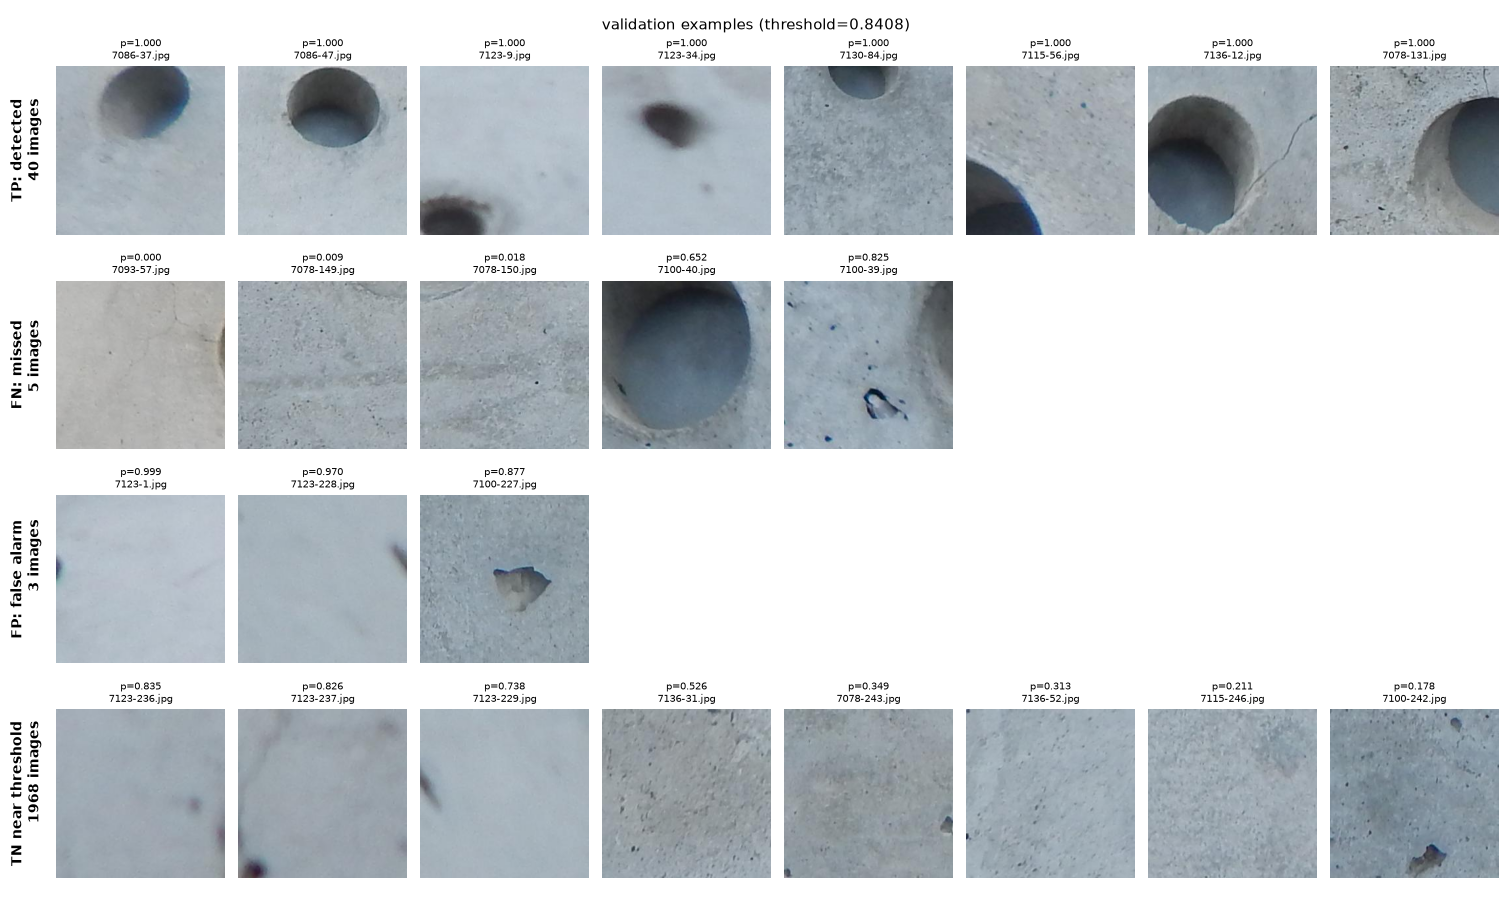
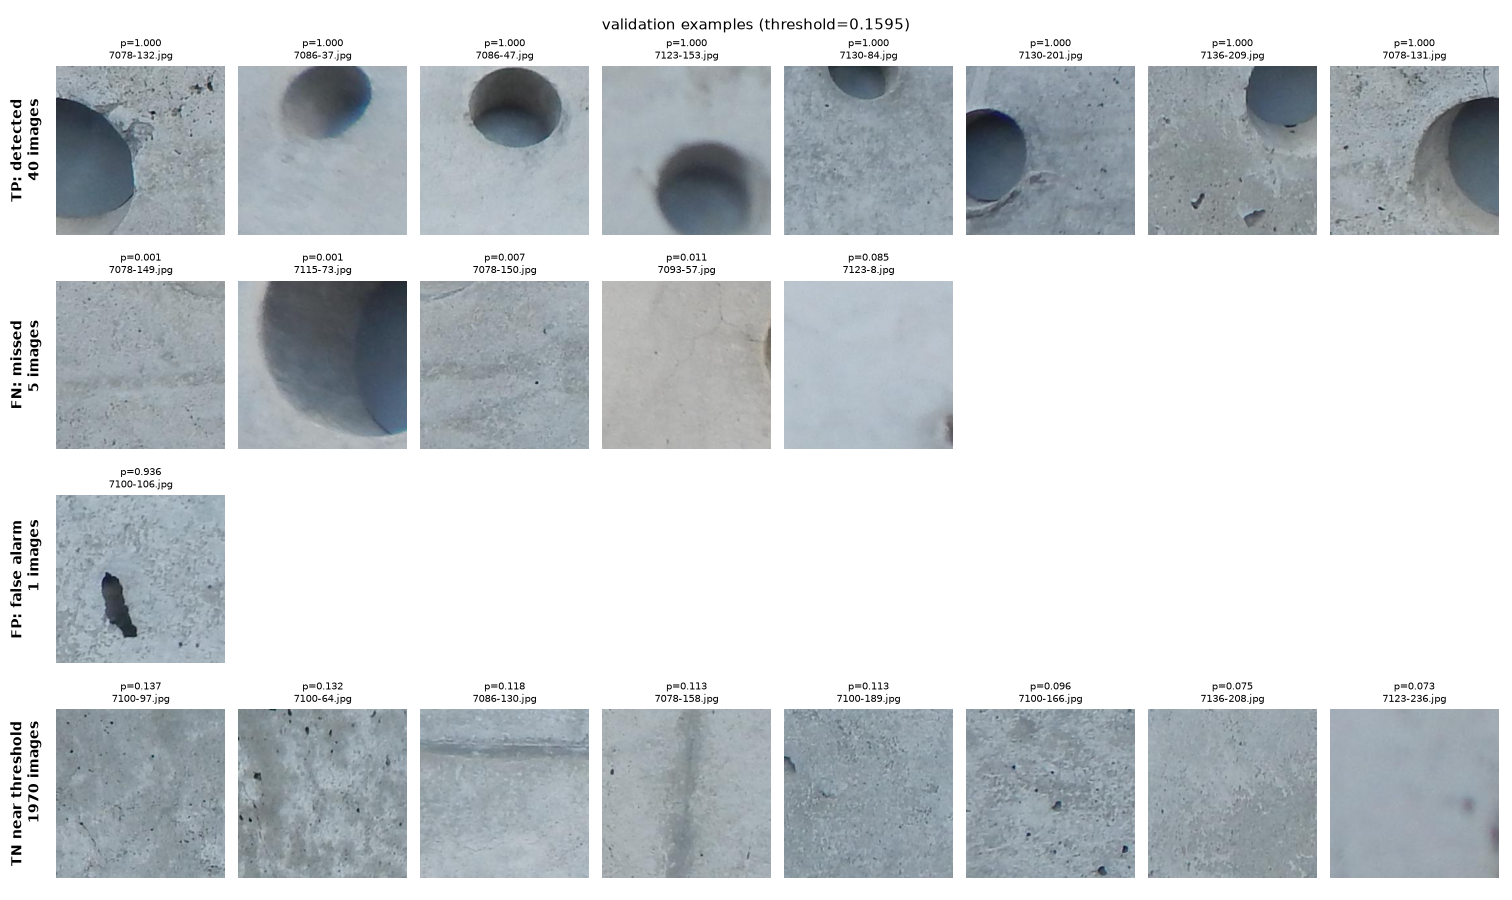
2値化画像を観測に追加

diff --git a/predict.py b/predict.py
@@ -1,10 +1,12 @@
 """学習済みモデルで評価用画像を予測し、提出用CSV（ヘッダなし、<相対パス>,<0|1>）を作る。
 
 1. 各画像を 90度単位の回転 × 反転 の8通りで予測して平均する（TTA）
-2. ハフ変換で暗い円（Pコン跡の穴）が見つかった画像は、確率に +0.2 する
-3. train.py が決めた閾値以上を1にする
+2. train.py が決めた閾値以上を1にする
 
     python predict.py
+
+オプション：--hough-bonus 0.2 で、ハフ変換で暗い円（Pコン跡の穴）が見つかった画像の確率に +0.2 する
+（RGB のみのモデルでは有効だったが、最終モデル（エッジ入力あり）では使っていない）。
 """
 
 import argparse
@@ -19,7 +21,7 @@ from torch.utils.data import DataLoader
 
 from train import WallDataset, build_model
 
-HOUGH_BONUS = 0.2       # 暗い円が見つかったときに確率へ足す値
+HOUGH_BONUS = 0.0       # 暗い円が見つかったときに確率へ足す値（既定は加点なし）
 DARKNESS_THRESHOLD = 20  # 円の外側と内側の明るさの差がこれ以上なら「暗い円（穴）」とみなす
 PAD = 180               # 中心が画像の外にある円（端で切れた弧）も見つけるための余白
 
@@ -62,12 +64,16 @@ def main():
     parser.add_argument("--data-dir", type=Path, default=Path("data"))
     parser.add_argument("--model-dir", type=Path, default=Path("outputs/model"))
     parser.add_argument("--output", type=Path, default=Path("outputs/submission.csv"))
+    parser.add_argument("--hough-bonus", type=float, default=HOUGH_BONUS, help="暗い円があるときの加点（0で加点なし）")
+    parser.add_argument("--darkness", type=float, default=DARKNESS_THRESHOLD, help="暗い円とみなす暗さの基準")
+    parser.add_argument("--hough-cache", type=Path, default=Path("outputs/hough_darkness.csv"),
+                        help="ハフ変換の結果（画像ごとの暗さ）の保存先。計算済みの画像は再計算しない")
     args = parser.parse_args()
     device = torch.device("cuda" if torch.cuda.is_available() else "cpu")
 
     info = json.loads((args.model_dir / "threshold.json").read_text())
     threshold, edges = info["threshold"], info.get("edges", False)
-    model = build_model(edges)
+    model = build_model(edges, info.get("arch", "resnet18"))
     model.load_state_dict(torch.load(args.model_dir / "model.pt", map_location=device, weights_only=True))
     model.to(device).eval()
 
@@ -83,19 +89,29 @@ def main():
             probabilities.append(torch.stack(views).mean(dim=0).cpu().numpy())
     probabilities = np.concatenate(probabilities)
 
-    # 加点で判定が変わりうるのは「閾値 - 0.2 <= 確率 < 閾値」の画像だけなので、それだけにハフ変換をかける。
-    candidates = np.flatnonzero((probabilities >= threshold - HOUGH_BONUS) & (probabilities < threshold))
+    # 加点で判定が変わりうるのは「閾値 - 加点 <= 確率 < 閾値」の画像だけなので、それだけにハフ変換をかける。
+    candidates = np.flatnonzero((probabilities >= threshold - args.hough_bonus) & (probabilities < threshold))
+    # 暗さは画像とハフ変換の設定だけで決まる（モデルによらない）ので、計算結果をファイルに保存して使い回す。
+    cache = {}
+    if args.hough_cache.is_file():
+        with args.hough_cache.open(encoding="utf-8") as handle:
+            cache = {path: float(value) for path, value in csv.reader(handle)}
     darkness = np.zeros(len(test_paths))
     for i in candidates:
-        darkness[i] = hole_darkness(args.data_dir / "SDNET2018" / test_paths[i])
-    probabilities = probabilities + HOUGH_BONUS * (darkness >= DARKNESS_THRESHOLD)
+        if test_paths[i] not in cache:
+            cache[test_paths[i]] = hole_darkness(args.data_dir / "SDNET2018" / test_paths[i])
+        darkness[i] = cache[test_paths[i]]
+    args.hough_cache.parent.mkdir(parents=True, exist_ok=True)
+    with args.hough_cache.open("w", newline="", encoding="utf-8") as handle:
+        csv.writer(handle, lineterminator="\n").writerows(sorted(cache.items()))
+    probabilities = probabilities + args.hough_bonus * (darkness >= args.darkness)
     predictions = (probabilities >= threshold).astype(int)
 
     args.output.parent.mkdir(parents=True, exist_ok=True)
     with args.output.open("w", newline="", encoding="utf-8") as handle:
         csv.writer(handle, lineterminator="\n").writerows(zip(test_paths, predictions))
     print(f"threshold={threshold:.4f}, hough checked={len(candidates)}, "
-          f"boosted={(darkness >= DARKNESS_THRESHOLD).sum()}, positive={predictions.sum()}/{len(predictions)} -> {args.output}")
+          f"boosted={(darkness >= args.darkness).sum()}, positive={predictions.sum()}/{len(predictions)} -> {args.output}")
 
 
 if __name__ == "__main__":

diff --git a/train.py b/train.py
@@ -1,5 +1,6 @@
 """Pコン跡の有無を判定する ResNet-18 を学習する（事前学習なし）。
 
+入力は RGB と、Canny によるエッジの2値画像の4チャネル（--no-edges で RGB のみ）。
 学習用の元写真40枚のうち、valid_photos.csv に書いた8枚を検証に使い、残り32枚で学習する。
 最後のepochのモデルで検証画像を予測し、F1が最大になる閾値を決めて保存する。
 
@@ -21,7 +22,9 @@ from sklearn.metrics import average_precision_score, precision_recall_curve
 from torch import nn
 from torch.utils.data import DataLoader, Dataset, WeightedRandomSampler
 from torchvision import transforms
-from torchvision.models import resnet18
+from torchvision.models import resnet18, resnet34, resnet50
+
+ARCHITECTURES = {"resnet18": resnet18, "resnet34": resnet34, "resnet50": resnet50}
 
 
 class WallDataset(Dataset):
@@ -59,9 +62,9 @@ class WallDataset(Dataset):
         return tensor, torch.tensor(label, dtype=torch.float32)
 
 
-def build_model(edges=False):
-    """事前学習なしの ResNet-18。出力は「Pコン跡らしさ」のスコア1つ。edges=True なら入力4チャネル。"""
-    model = resnet18(weights=None, num_classes=1)
+def build_model(edges=False, arch="resnet18"):
+    """事前学習なしの ResNet。出力は「Pコン跡らしさ」のスコア1つ。edges=True なら入力4チャネル。"""
+    model = ARCHITECTURES[arch](weights=None, num_classes=1)
     if edges:
         model.conv1 = nn.Conv2d(4, 64, kernel_size=7, stride=2, padding=3, bias=False)
     return model
@@ -120,7 +123,9 @@ def main():
     parser.add_argument("--lr", type=float, default=1e-3)
     parser.add_argument("--pos-fraction", type=float, default=0.1)
     parser.add_argument("--seed", type=int, default=42)
-    parser.add_argument("--edges", action="store_true", help="エッジの2値画像を4つ目の入力チャネルに加える")
+    parser.add_argument("--arch", choices=sorted(ARCHITECTURES), default="resnet18")
+    parser.add_argument("--edges", action=argparse.BooleanOptionalAction, default=True,
+                        help="エッジの2値画像を4つ目の入力チャネルに加える（--no-edges で RGB のみ）")
     args = parser.parse_args()
     device = torch.device("cuda" if torch.cuda.is_available() else "cpu")
     image_dir = args.data_dir / "SDNET2018"
@@ -156,7 +161,7 @@ def main():
                               pin_memory=True)
 
     # 3. 学習する。学習率は cosine で徐々に下げ、最後のepochのモデルを安定させる。
-    model = build_model(args.edges).to(device)
+    model = build_model(args.edges, args.arch).to(device)
     criterion = nn.BCEWithLogitsLoss()
     optimizer = torch.optim.AdamW(model.parameters(), lr=args.lr, weight_decay=1e-4)
     scheduler = torch.optim.lr_scheduler.CosineAnnealingLR(optimizer, T_max=args.epochs)
@@ -178,7 +183,8 @@ def main():
         csv.writer(handle).writerows(history)
     torch.save(model.state_dict(), args.output / "model.pt")
     (args.output / "threshold.json").write_text(
-        json.dumps({"threshold": threshold, "valid_f1": f1, "valid_ap": float(ap), "edges": args.edges}, indent=2)
+        json.dumps({"threshold": threshold, "valid_f1": f1, "valid_ap": float(ap), "edges": args.edges,
+                    "arch": args.arch}, indent=2)
     )
     with (args.output / "valid_predictions.csv").open("w", newline="", encoding="utf-8") as handle:
         writer = csv.writer(handle)

diff --git a/README.md b/README.md
@@ -7,7 +7,8 @@
 |---|---|---|
 | ベースライン（拡張・比率調整なし、学習率一定） | 0.72 | 0.64 |
 | CNN（回転・反転、陽性の抽選比率調整、cosine、TTA） | 0.91 | 0.755 |
-| **最終（CNN ＋ ハフ変換による加点）** | **0.93** | **0.805** |
+| CNN ＋ ハフ変換による加点 | 0.93 | 0.805 |
+| **最終：CNN の入力にエッジ画像を追加** | **0.93** | **0.8125** |
 
 検証は学習用の元写真のうち 8 枚（陽性 45 タイル）で行った。
 
@@ -15,55 +16,70 @@
 
 ```
 train.py          学習。モデル（model.pt）と閾値（threshold.json）を outputs/model/ に保存
-predict.py        評価用画像を予測（TTA ＋ ハフ変換による加点）し、提出ファイル outputs/submission.csv を作成
+predict.py        評価用画像を予測し、提出ファイル outputs/submission.csv を作成
 analyze.py        学習曲線と、検証画像の成功例・失敗例を並べた画像を作成（分析用）
 valid_photos.csv  検証に使う元写真 8 枚の ID（残り 32 枚で学習する）
 docs/             README に載せている図
 ```
 
-- **モデル**：ResNet-18（torchvision、`weights=None` でランダム初期化）。出力は Pコン跡らしさのスコア 1 つ
+- **入力**：RGB 画像 ＋ Canny（最小 30・最大 60）によるエッジの 2 値画像の 4 チャネル
+- **モデル**：ResNet-18（torchvision、`weights=None` でランダム初期化、最初の畳み込みを 4 チャネル入力に変更）。出力は Pコン跡らしさのスコア 1 つ
 - **学習**：元写真 32 枚分（8,063 タイル）で 20 epoch。BCE 損失、AdamW（学習率 0.001、weight decay 0.0001）、cosine で学習率を減衰、バッチサイズ 64、混合精度
 - **予測**：90 度単位の回転 × 反転の 8 通りで予測して平均（TTA）
-- **ハフ変換による加点**：円のハフ変換（OpenCV）で「内側が暗い円（穴）」が見つかった画像は、確率に +0.2 する
-- **判定**：検証画像で F1 が最大になる閾値（0.84）以上を 1 とする
+- **判定**：検証画像で F1 が最大になる閾値（0.16）以上を 1 とする
 
 ## 工夫した点
 
 - 陽性（Pコン跡あり）が 194 枚しかない。Pコン跡は円形で、向きが変わっても Pコン跡のまま
-  ⇒ **90 度単位の回転・反転で 1 枚から 8 通りの見え方を作って学習し、予測時も 8 通りの平均を取った（TTA）**
+  ⇒ **90 度単位の回転・反転で 8 通りの見え方を作って学習し、予測時も 8 通りの平均を取った（TTA）**
 - 陽性が全体の約 2% しかなく、バッチ 64 枚に平均 1 枚程度しか入らない
   ⇒ **学習時に陽性が約 1 割になるよう重み付きで抽選した**
-- 学習率一定ではエポックごとに検証スコアが大きく揺れ、最終モデルが安定しなかった
+- 学習率一定では epoch ごとに検証スコアが大きく揺れ、最終モデルが安定しなかった
   ⇒ **学習率を cosine で徐々に下げた**
-- 誤り分析で、穴がはっきり写っているのに見逃している画像（7100-40、7100-39）が見つかった。CNN の確率は 0.65・0.82 と閾値（0.84）にあと一歩だった。参考文献 3（全ら「画像解析によるひび割れ検出とハフ変換による型枠跡および Pコン跡の同定」2015）では、Pコン跡の同定に円のハフ変換が使われている。この 2 枚は円が明らかなので、ハフ変換なら拾えると考えた
-  ⇒ **ハフ変換で「内側が暗い円」が見つかった画像は、CNN の確率に +0.2 して救済した**
+- Pコン跡は沈みひびわれの原因になりうるため、外観検査では Pコン跡の周辺が確認されている（問題文の補足、[参考文献 1](https://www.pref.tottori.lg.jp/secure/1021057/hibiwarema.pdf)・[2](https://www.cgr.mlit.go.jp/ctc/pdf/technology/concrete/a4-07.pdf)）。つまり Pコン跡の近くにはひび割れが出やすい。実際、SDNET2018 のひび割れラベルでも、ひびありのタイルの割合は Pコン跡ありで 35%、なしで 24% と約 1.5 倍だった。エッジ画像はひび割れの線や穴の縁を浮かび上がらせるため、手がかりになると考えた
+  ⇒ **Canny のエッジの 2 値画像を、RGB に続く 4 つ目の入力チャネルとして加えた**
 
-### ハフ変換による加点の詳細
+### エッジ画像の入力
+
+![元画像とエッジ画像](docs/edges.png)
+
+- 7136-12 のように、Pコン跡の縁は円弧として、周りのひび割れは線として、はっきり浮かび上がる
+- エッジの画素の割合は、ひびありのタイル 10.1%、ひびなし 8.7% と、ひび割れに反応している
+- 一方、Pコン跡あり 8.7%、なし 9.1% とエッジの量に差はない（表面のざらつきでもエッジが多く出るため。7078-149、7078-150 など）。手がかりは量ではなく、円弧や線の形と位置で、それを CNN に学習させる狙い
+
+### ハフ変換による加点（RGB のみのモデルで有効、最終構成では不使用）
+
+誤り分析で、穴がはっきり写っているのに CNN の確率が閾値にあと一歩届かず見逃している画像（7100-40、7100-39）が見つかった。[参考文献 3](http://data.jci-net.or.jp/data_pdf/37/037-01-1291.pdf) では Pコン跡の同定に円のハフ変換が使われているため、ハフ変換で「内側が暗い円（穴）」が見つかった画像は CNN の確率に +0.2 することにした。
 
 ![ハフ変換で検出した円](docs/hough.png)
 
-- 画像の周りに余白を足してから円を探し、中心が画像の外にある円（7100-39 のように端で切れた弧）も見つける
-- コンクリート表面の模様からもニセの円が見つかるため、「円の外側の輪の明るさ − 内側の明るさ」（暗さ）が 20 以上の円だけを穴とみなす
-- ハフ変換だけで判定すると F1 は 0.68（学習データ全体）。円が見つかれば陽性である可能性が非常に高い（陽性の 71%、陰性の 0.2%）一方、端に縁だけ写った Pコン跡などは見つからない。そのため、円がない画像の減点はせず、円があるときの加点だけにした
-- 検証画像では、陰性を新たに誤検出することなく 7100-40・7100-39 の 2 枚を救済し、F1 は 0.91 → 0.93 になった
+- 画像の周りに余白を足してから円を探し、中心が画像の外にある円（端で切れた弧）も見つける
+- 「円の外側の輪の明るさ − 内側の明るさ」が 20 以上の円だけを穴とみなし、表面の模様から出るニセの円を除く
+- 円が見つからないことは陰性の根拠として弱い（陽性の 3 割は円が見えない）ため、加点だけにした
+- RGB のみのモデルでは public F1 が 0.755 → 0.805 に上がった。エッジ入力ありのモデルでは逆に下がった（0.8125 → 0.788）ため、最終構成では使っていない（`predict.py --hough-bonus 0.2` で有効になる）
 
-## 学習の様子と分析結果
+## 学習の様子と分析結果（最終モデル）
 
 ### 学習曲線
 
 ![学習曲線](docs/learning_curve.png)
 
-学習率が高い序盤（〜5 epoch）は検証スコアが大きく揺れるが、cosine で学習率が下がるにつれて安定し、6 epoch 以降は検証 F1 / AP とも 0.9 前後で推移した。
+序盤（〜5 epoch）は学習率が高く検証スコアが大きく揺れるが、cosine で学習率が下がるにつれて安定し、最終 epoch で検証 F1 0.93、AP 0.93 となった。
 
-### 成功例・失敗例（検証画像、CNN のみ、閾値 0.84）
+### 成功例・失敗例（検証画像、閾値 0.16）
 
 ![成功例・失敗例](docs/analysis.png)
 
-上から、検出できた陽性（TP 40 枚）、見逃した陽性（FN 5 枚）、誤検出（FP 3 枚）、閾値に近かった陰性。ハフ変換による加点を入れる前の結果で、見逃しのうち 7100-40・7100-39 は加点で救済される。
+上から、検出できた陽性（TP 40 枚）、見逃した陽性（FN 5 枚）、誤検出（FP 1 枚）、閾値に近かった陰性。
 
-- 穴がはっきり写った Pコン跡に加え、モルタルで埋め戻された Pコン跡（7123-9、7123-34）も検出できている
-- 見逃しの多くは、Pコン跡の縁が画像の端に数ピクセルだけ写ったタイル（7093-57、7078-149、7078-150）
-- 誤検出は、画像の端にかかった黒い汚れ（7123-1、7123-228）や、表面の欠け（7100-227）
+- 見逃しの多くは、Pコン跡の縁が画像の端に数ピクセルだけ写ったタイル（7078-149、7078-150、7093-57）
+- 誤検出は表面の欠け（7100-106）の 1 枚だけ
+
+## 参考文献
+
+1. 鳥取県「[コンクリート構造物ひび割れ抑制対策マニュアル（案）](https://www.pref.tottori.lg.jp/secure/1021057/hibiwarema.pdf)」2016
+2. 中国地方整備局「[コンクリート構造物の品質確保・向上の手引き（案）【施工編（監督・検査）】](https://www.cgr.mlit.go.jp/ctc/pdf/technology/concrete/a4-07.pdf)」2022
+3. 全ら「[画像解析によるひび割れ検出とハフ変換による型枠跡および Pコン跡の同定](http://data.jci-net.or.jp/data_pdf/37/037-01-1291.pdf)」コンクリート工学年次論文集, 2015
 
 ## 実行環境
 
@@ -101,7 +117,7 @@ python -m venv .venv
 .\.venv\Scripts\python.exe train.py
 ```
 
-`outputs/model/` に `model.pt`（重み）、`threshold.json`（閾値と検証スコア）、`history.csv`（エポックごとの損失と検証スコア）、`valid_predictions.csv`（検証画像の予測）が保存される。
+`outputs/model/` に `model.pt`（重み）、`threshold.json`（閾値と検証スコア）、`history.csv`（epoch ごとの損失と検証スコア）、`valid_predictions.csv`（検証画像の予測）が保存される。
 
 ### 4. 予測して提出ファイルを作る
 
@@ -118,3 +134,5 @@ python -m venv .venv
 ```
 
 `outputs/model/` に学習曲線（`learning_curve.png`）と成功例・失敗例の画像（`analysis.png`）が作られる。
+
+乱数シードと決定的アルゴリズムを固定しているため、同じ GPU・同じライブラリのバージョンなら同じ結果になる。
